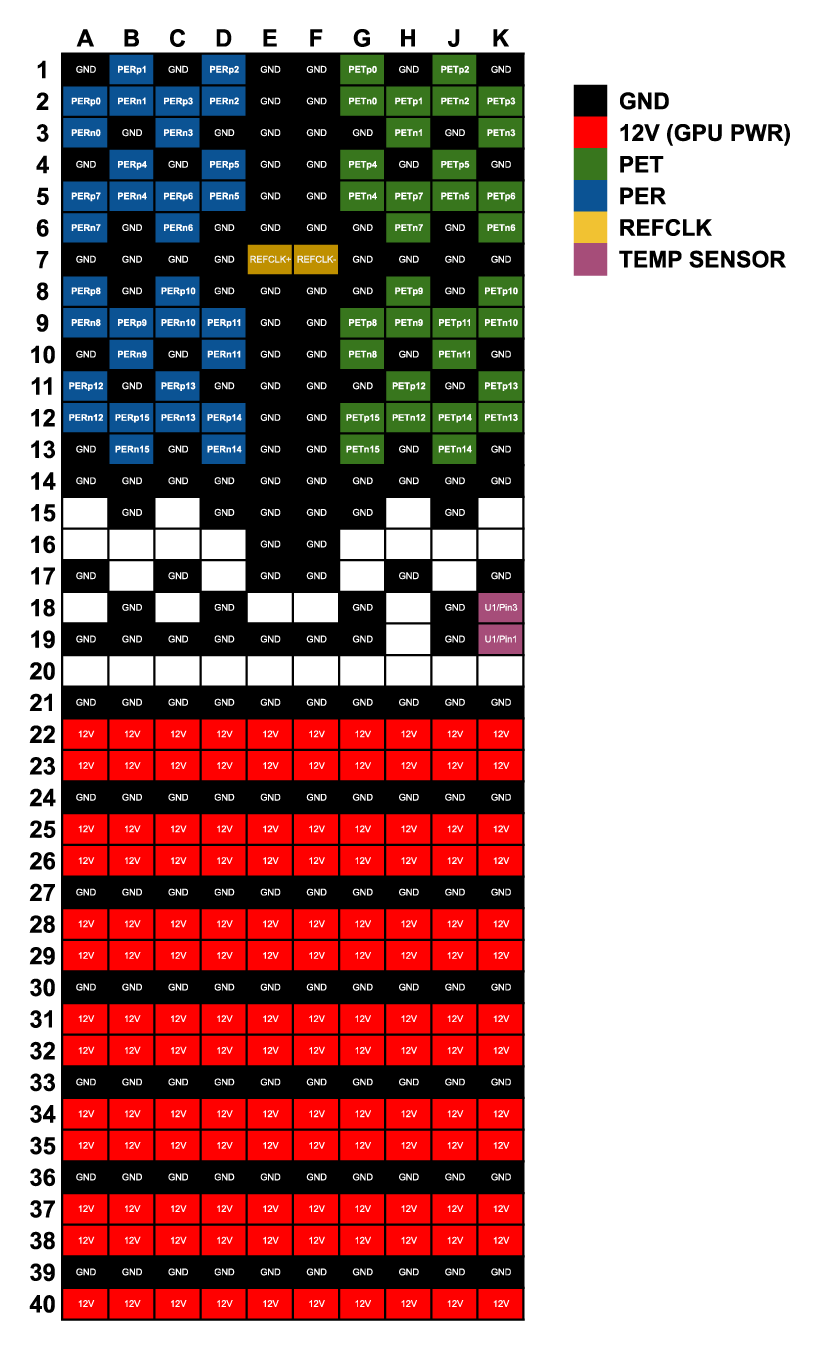
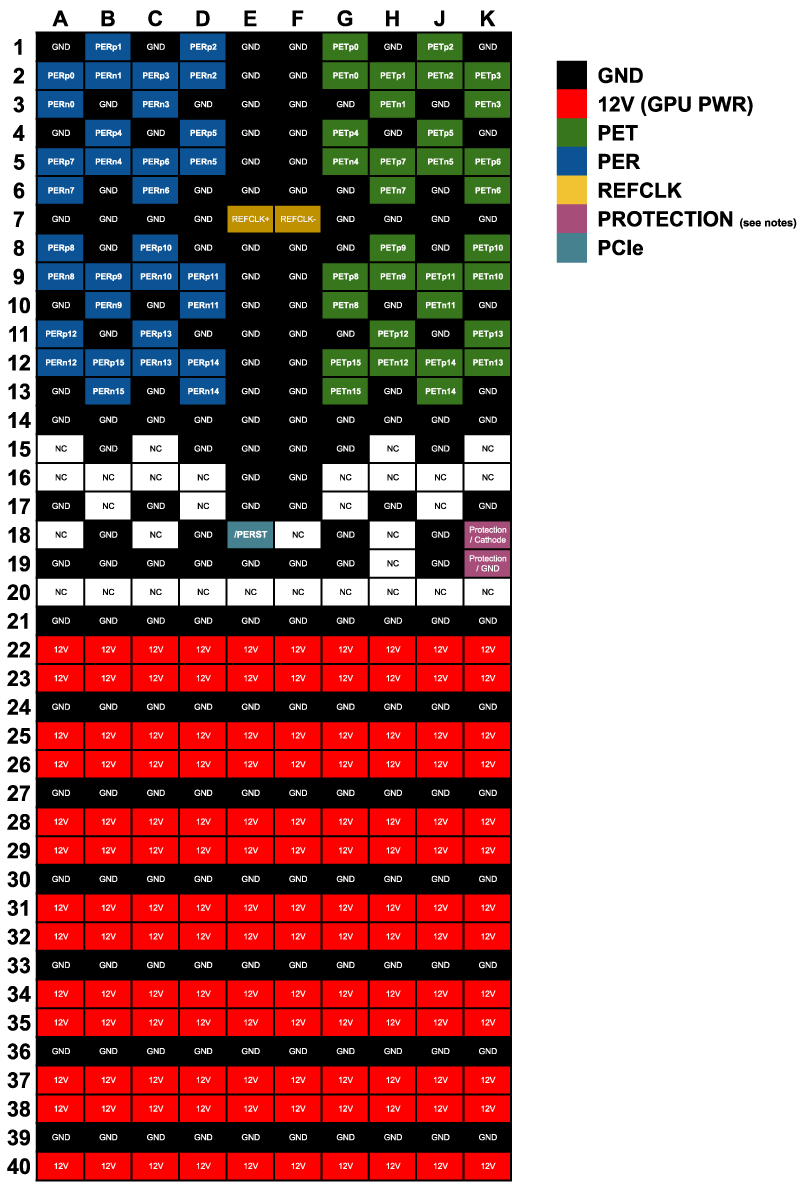
update

diff --git a/pages/SXM2PCIe.md b/pages/SXM2PCIe.md
@@ -13,6 +13,7 @@ description: Open-source pinout, schematic, and footprint for NVIDIA SXM2 to PCI
 Nvidia’s SXM documentation is only released under mutual NDA. The pinout shown here was derived <strong>solely</strong> from publicly purchased hardware, non-destructive continuity probing, and electrical measurement, which is lawful reverse-engineering under U.S. and many other jurisdictions’ fair use and interoperability exemptions e.g. 17 U.S.C. § 107, 17 U.S.C. § 1201(f), and Directive 2009/24/EC Art. 6. No confidential documents were accessed or breached, and no trademark or trade-secret rights are waived or implied. For concerns regarding copyright or trade secrets, please contact benchoff@gmail.com.
 </p>
 
+
 For another project, it was necessary for me to acquire the pinout for Nvidia's [SXM2 socket](https://en.wikipedia.org/wiki/SXM_(socket)). This is a high-bandwidth mezzanine connector used in Nvidia datacenter GPUs. The SXM2 "standard" is quite old at the time of this writing (mid-2025), but details of this connector, including a pinout or even mechanical drawings, are still locked under NDAs at Nvidia's behest.
 
 Therefore, to get the details on this pinout, I had to do it the old-fashioned way. I had to reverse engineer it.
@@ -30,50 +31,48 @@ This is, to the best of my ability, the pinout for an SXM2 module:
 ![Graphic of the SXM2 pinout](/images/SXM2Pinout.png)
 
 Also in table format:
-``` 
-|Row|A|B|C|D|E|F|G|H|J|K|
-|---|---|---|---|---|---|---|---|---|---|---|
-|1|GND|PERp1|GND|PERp2|GND|GND|PETp0|GND|PETp2|GND|
-|2|PERp0|PERn1|PERp3|PERn2|GND|GND|PETn0|PETp1|PETn2|PETp3|
-|3|PERn0|GND|PERn3|GND|GND|GND|GND|PETn1|GND|PETn3|
-|4|GND|PERp4|GND|PERp5|GND|GND|PETp4|GND|PETp5|GND|
-|5|PERp7|PERn4|PERp6|PERn5|GND|GND|PETn4|PETp7|PETn5|PETp6|
-|6|PERn7|GND|PERn6|GND|GND|GND|GND|PETn7|GND|PETn6|
-|7|GND|GND|GND|GND|REFCLK+|REFCLK-|GND|GND|GND|GND|
-|8|PERp8|GND|PERp10|GND|GND|GND|GND|PETp9|GND|PETp10|
-|9|PERn8|PERp9|PERn10|PERp11|GND|GND|PETp8|PETn9|PETp11|PETn10|
-|10|GND|PERn9|GND|PERn11|GND|GND|PETn8|GND|PETn11|GND|
-|11|PERp12|GND|PERp13|GND|GND|GND|GND|PETp12|GND|PETp13|
-|12|PERn12|PERp15|PERn13|PERp14|GND|GND|PETp15|PETn12|PETp14|PETn13|
-|13|GND|PERn15|GND|PERn14|GND|GND|PETn15|GND|PETn14|GND|
-|14|GND|GND|GND|GND|GND|GND|GND|GND|GND|GND|
-|15||GND||GND|GND|GND|GND||GND|
-|16|||GND|GND|||
-|17|GND||GND||GND|GND||GND||GND|
-|18||GND||GND|||GND||GND|U1/Pin3|
-|19|GND|GND|GND|GND|GND|GND|GND||GND|U1/Pin1|
-|20|
-|21|GND|GND|GND|GND|GND|GND|GND|GND|GND|GND|
-|22|12V|12V|12V|12V|12V|12V|12V|12V|12V|12V|
-|23|12V|12V|12V|12V|12V|12V|12V|12V|12V|12V|
-|24|GND|GND|GND|GND|GND|GND|GND|GND|GND|GND|
-|25|12V|12V|12V|12V|12V|12V|12V|12V|12V|12V|
-|26|12V|12V|12V|12V|12V|12V|12V|12V|12V|12V|
-|27|GND|GND|GND|GND|GND|GND|GND|GND|GND|GND|
-|28|12V|12V|12V|12V|12V|12V|12V|12V|12V|12V|
-|29|12V|12V|12V|12V|12V|12V|12V|12V|12V|12V|
-|30|GND|GND|GND|GND|GND|GND|GND|GND|GND|GND|
-|31|12V|12V|12V|12V|12V|12V|12V|12V|12V|12V|
-|32|12V|12V|12V|12V|12V|12V|12V|12V|12V|12V|
-|33|GND|GND|GND|GND|GND|GND|GND|GND|GND|GND|
-|34|12V|12V|12V|12V|12V|12V|12V|12V|12V|12V|
-|35|12V|12V|12V|12V|12V|12V|12V|12V|12V|12V|
-|36|GND|GND|GND|GND|GND|GND|GND|GND|GND|GND|
-|37|12V|12V|12V|12V|12V|12V|12V|12V|12V|12V|
-|38|12V|12V|12V|12V|12V|12V|12V|12V|12V|12V|
-|39|GND|GND|GND|GND|GND|GND|GND|GND|GND|GND|
-|40|12V|12V|12V|12V|12V|12V|12V|12V|12V|12V|
-```
+| Row | A | B | C | D | E | F | G | H | J | K |
+|-----|---|---|---|---|---|---|---|---|---|---|
+| 1 | GND | PERp1 | GND | PERp2 | GND | GND | PETp0 | GND | PETp2 | GND |
+| 2 | PERp0 | PERn1 | PERp3 | PERn2 | GND | GND | PETn0 | PETp1 | PETn2 | PETp3 |
+| 3 | PERn0 | GND | PERn3 | GND | GND | GND | GND | PETn1 | GND | PETn3 |
+| 4 | GND | PERp4 | GND | PERp5 | GND | GND | PETp4 | GND | PETp5 | GND |
+| 5 | PERp7 | PERn4 | PERp6 | PERn5 | GND | GND | PETn4 | PETp7 | PETn5 | PETp6 |
+| 6 | PERn7 | GND | PERn6 | GND | GND | GND | GND | PETn7 | GND | PETn6 |
+| 7 | GND | GND | GND | GND | REFCLK+ | REFCLK- | GND | GND | GND | GND |
+| 8 | PERp8 | GND | PERp10 | GND | GND | GND | GND | PETp9 | GND | PETp10 |
+| 9 | PERn8 | PERp9 | PERn10 | PERp11 | GND | GND | PETp8 | PETn9 | PETp11 | PETn10 |
+| 10 | GND | PERn9 | GND | PERn11 | GND | GND | PETn8 | GND | PETn11 | GND |
+| 11 | PERp12 | GND | PERp13 | GND | GND | GND | GND | PETp12 | GND | PETp13 |
+| 12 | PERn12 | PERp15 | PERn13 | PERp14 | GND | GND | PETp15 | PETn12 | PETp14 | PETn13 |
+| 13 | GND | PERn15 | GND | PERn14 | GND | GND | PETn15 | GND | PETn14 | GND |
+| 14 | GND | GND | GND | GND | GND | GND | GND | GND | GND | GND |
+| 15 | NC | GND | NC | GND | GND | GND | GND | NC | GND | NC |
+| 16 | NC | NC | NC | NC | GND | GND | NC | NC | NC | NC |
+| 17 | GND | NC | GND | NC | GND | GND | NC | GND | NC | GND |
+| 18 | NC | GND | NC | GND | /PERST | NC | GND | NC | GND | Protection / Cathode |
+| 19 | GND | GND | GND | GND | GND | GND | GND | NC | GND | Protection / GND |
+| 20 | NC | NC | NC | NC | NC | NC | NC | NC | NC | NC |
+| 21 | GND | GND | GND | GND | GND | GND | GND | GND | GND | GND |
+| 22 | 12V | 12V | 12V | 12V | 12V | 12V | 12V | 12V | 12V | 12V |
+| 23 | 12V | 12V | 12V | 12V | 12V | 12V | 12V | 12V | 12V | 12V |
+| 24 | GND | GND | GND | GND | GND | GND | GND | GND | GND | GND |
+| 25 | 12V | 12V | 12V | 12V | 12V | 12V | 12V | 12V | 12V | 12V |
+| 26 | 12V | 12V | 12V | 12V | 12V | 12V | 12V | 12V | 12V | 12V |
+| 27 | GND | GND | GND | GND | GND | GND | GND | GND | GND | GND |
+| 28 | 12V | 12V | 12V | 12V | 12V | 12V | 12V | 12V | 12V | 12V |
+| 29 | 12V | 12V | 12V | 12V | 12V | 12V | 12V | 12V | 12V | 12V |
+| 30 | GND | GND | GND | GND | GND | GND | GND | GND | GND | GND |
+| 31 | 12V | 12V | 12V | 12V | 12V | 12V | 12V | 12V | 12V | 12V |
+| 32 | 12V | 12V | 12V | 12V | 12V | 12V | 12V | 12V | 12V | 12V |
+| 33 | GND | GND | GND | GND | GND | GND | GND | GND | GND | GND |
+| 34 | 12V | 12V | 12V | 12V | 12V | 12V | 12V | 12V | 12V | 12V |
+| 35 | 12V | 12V | 12V | 12V | 12V | 12V | 12V | 12V | 12V | 12V |
+| 36 | GND | GND | GND | GND | GND | GND | GND | GND | GND | GND |
+| 37 | 12V | 12V | 12V | 12V | 12V | 12V | 12V | 12V | 12V | 12V |
+| 38 | 12V | 12V | 12V | 12V | 12V | 12V | 12V | 12V | 12V | 12V |
+| 39 | GND | GND | GND | GND | GND | GND | GND | GND | GND | GND |
+| 40 | 12V | 12V | 12V | 12V | 12V | 12V | 12V | 12V | 12V | 12V |
 
 ## The Temperature Sensor That Wasn't
 
@@ -130,9 +129,13 @@ Even though I can characterize this part and infer its function -- as well as ma
 
 ![The corrected, reversed engineered 'protection' schematic](/images/SXMProtectionCircuit.png)
 
+If you know this isn't correct or have a better idea, PRs are welcome [on this projet's Github](https://github.com/bbenchoff/SXM2toPCIe).
+
 ## The Actual Schematic
 
+After mapping GND, 12V, the PCIe lanes, and the mysterious circuit, there were 32 unconnected pins in the Meg-Array connector, in rows 15 through 20, with the entirety of row 20 being disconnected. This required much more thorough investigations and continuity tracing. The `PERST#` signal was found on E18, but no JTAG or other connections were found. 
 
+Other than the connections from the SXM module to the PCIe card edge, there is another, single connection in between PCIe card pins: The `PRSNT1#` must connect to the farthest `PRSNT2#` pin. Since this is an x16 card, this means pin A1 is connected to pin B81.
 
 
 ## The Mechanical Footprint
